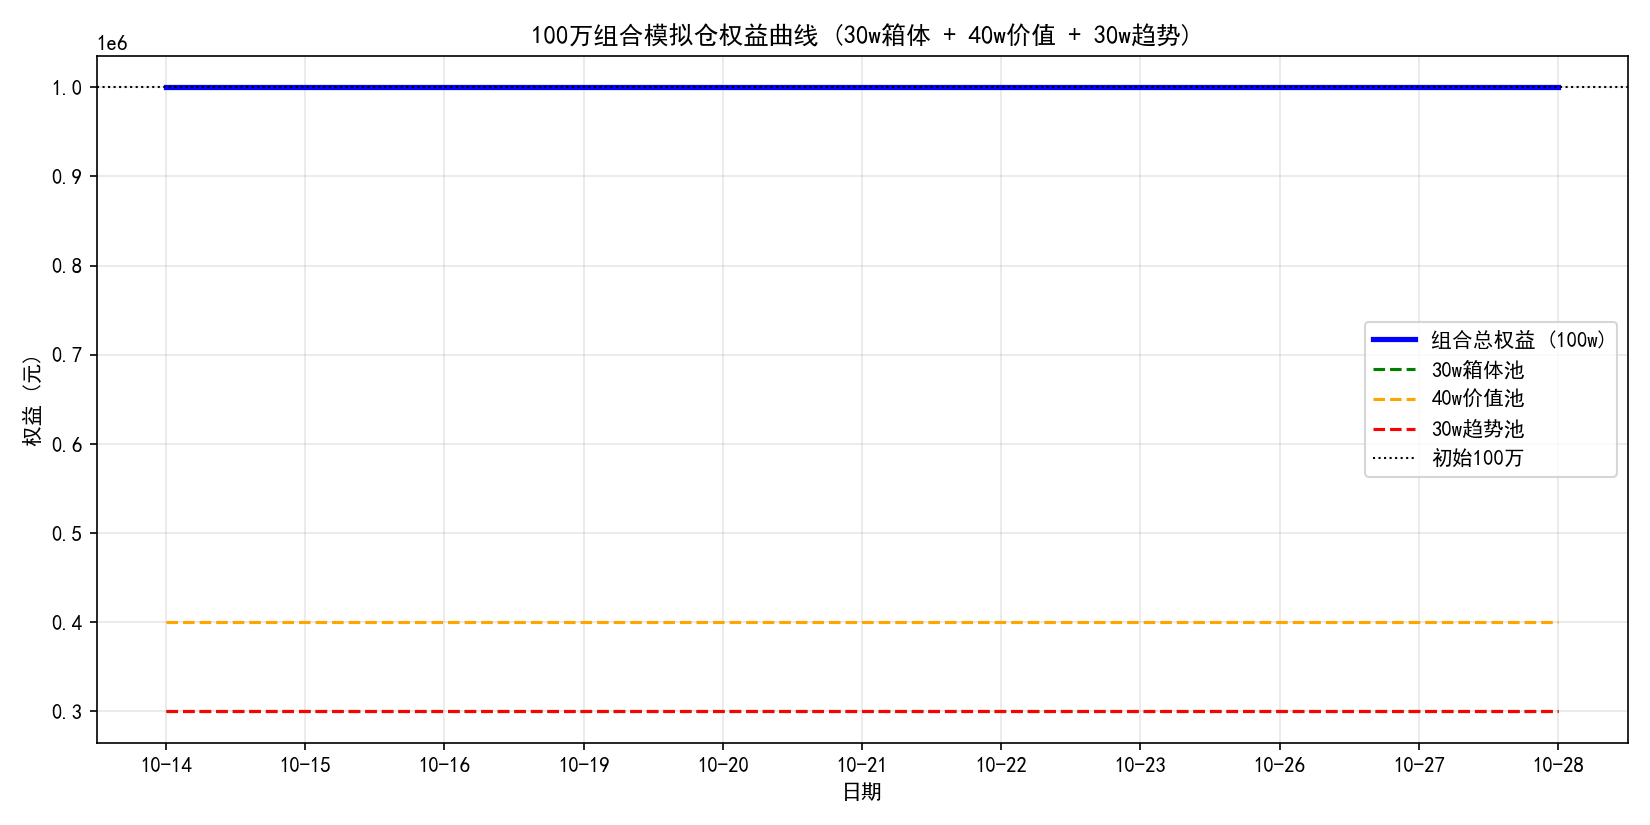
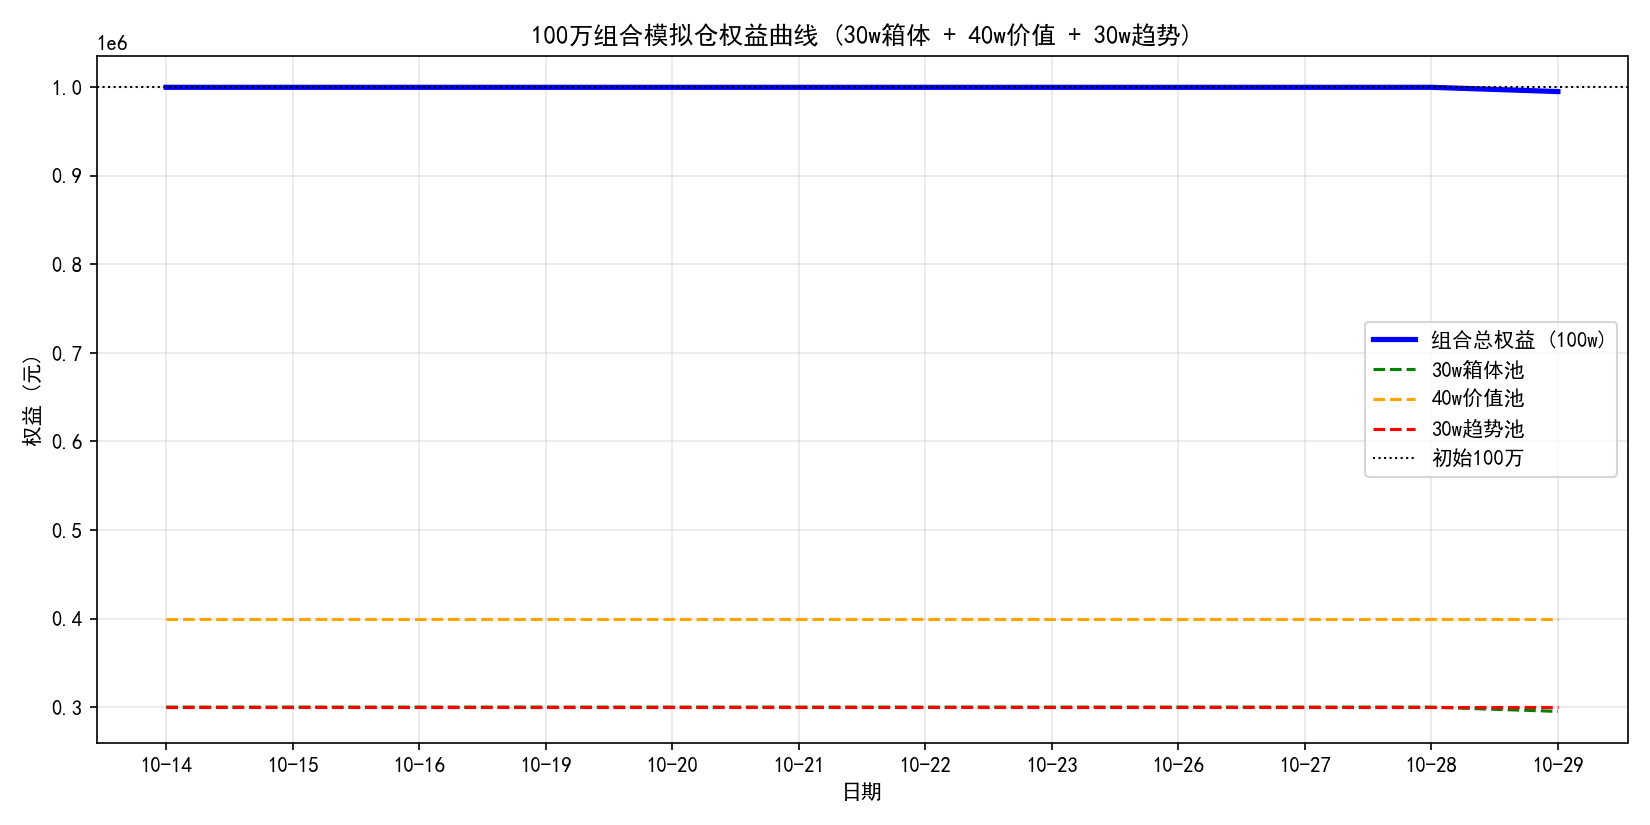
reports: 2026-10-29 自动更新

diff --git a/custom/数据掘金/2026-10-14-DrX-100万组合模拟仓.html b/custom/数据掘金/2026-10-14-DrX-100万组合模拟仓.html
@@ -199,6 +199,16 @@
 <li>数据口径说明：今日 Tushare pro_bar 复权接口限频，14 只全量回退为不复权日线回退计算箱体/止损线，存在除权缺口偏差风险；药明康德/百济神州/中芯国际/澜起科技 IP 超限、亨通光电格式异常，计入常规观察；限频恢复后复权重算校验</li>
 </ul>
 <p><em>本模拟为量化研究记录，不构成投资建议。</em></p>
+<h3>2026-10-29（周四，收盘更新）</h3>
+<ul>
+<li>扫描分流（14 只全量）：30w 箱体低吸 <strong>0</strong> / 30w 趋势突破 <strong>0</strong> / 40w 价值回踩 <strong>0</strong> / 风控预警 <strong>9</strong></li>
+<li>30w 箱体池：新金路收 <strong>10.04</strong>（-8.23%），箱体 10.59–19.76，Pos -0.06，低于扫描止损线 13.59（距现价 -35.4%）；今日按新金路模拟规则执行 T0 试探仓买入 <strong>8400 股 @10.61</strong>，另有 T1 限价买入 5600 股 @10.61 待成交，硬止损 9.72，收盘价距硬止损 +3.3%；现金 210,849.26，权益 <strong>295,185.26</strong>（较 30w 本金 -4,814.74）</li>
+<li>40w 价值池：400,000.00（现金，无持仓）；30w 趋势池：300,000.00（现金，无持仓）——v1 阶段仅记录信号与市值，不自动下单</li>
+<li>组合权益：<strong>995,185.26（-0.48%）</strong>，为组合启动以来首次跌破 100 万</li>
+<li>关键风控：新金路 -8.23% 破位离场预警（低于扫描止损线 -35.4%），但 30w 池今日已按箱体下沿规则建试探仓，收盘已跌破买入价，盯紧硬止损 9.72；长江电力收 29.99（+2.01%），Pos 1.13 处分批止盈区，挂单 TP2@29.51（40%）/TP3@29.81（30%）；汇川技术收 56.78（+1.10%），Pos 1.65 处分批止盈区，挂单 TP2@52.88（40%）/TP3@53.80（30%），昨日趋势突破信号今日转为分批止盈区，v1 阶段趋势池不下单仅记录；阳光电源收 67.21（-1.49%）破位离场（-16.1%）；中际旭创收 582.05（-8.53%）破位离场（-18.6%）；亨通光电收 44.60（-7.98%）破位离场（-2.2%），昨日逼近硬止损今日跌破；兆易创新收 275.99（-4.79%）破位离场（-6.0%）；佰维存储收 138.10（-15.79%，量比 1.94x）破位离场（-18.9%）；泽璟制药收 84.20（-6.43%，量比 1.71x）破位离场（-15.3%）；70w 池空仓、无止损动作</li>
+<li>数据口径说明：今日 Tushare pro_bar 复权接口限频，14 只全量回退为不复权日线回退计算箱体/止损线，存在除权缺口偏差风险；紫金矿业格式异常、药明康德/百济神州/中芯国际/澜起科技 IP 超限，计入常规观察；限频恢复后复权重算校验</li>
+</ul>
+<p><em>本模拟为量化研究记录，不构成投资建议。</em></p>
 <p class="meta">发布日期：2026-10-14 · 类型：数据掘金</p>
 <footer class="site-foot">本站内容由定时任务自动生成，仅供学习参考，不构成投资建议。</footer>
 </div>

diff --git a/custom/数据掘金/2026-10-14-DrX-100万组合模拟仓.md b/custom/数据掘金/2026-10-14-DrX-100万组合模拟仓.md
@@ -163,3 +163,12 @@
 - 数据口径说明：今日 Tushare pro_bar 复权接口限频，14 只全量回退为不复权日线回退计算箱体/止损线，存在除权缺口偏差风险；药明康德/百济神州/中芯国际/澜起科技 IP 超限、亨通光电格式异常，计入常规观察；限频恢复后复权重算校验
 
 *本模拟为量化研究记录，不构成投资建议。*
+### 2026-10-29（周四，收盘更新）
+- 扫描分流（14 只全量）：30w 箱体低吸 **0** / 30w 趋势突破 **0** / 40w 价值回踩 **0** / 风控预警 **9**
+- 30w 箱体池：新金路收 **10.04**（-8.23%），箱体 10.59–19.76，Pos -0.06，低于扫描止损线 13.59（距现价 -35.4%）；今日按新金路模拟规则执行 T0 试探仓买入 **8400 股 @10.61**，另有 T1 限价买入 5600 股 @10.61 待成交，硬止损 9.72，收盘价距硬止损 +3.3%；现金 210,849.26，权益 **295,185.26**（较 30w 本金 -4,814.74）
+- 40w 价值池：400,000.00（现金，无持仓）；30w 趋势池：300,000.00（现金，无持仓）——v1 阶段仅记录信号与市值，不自动下单
+- 组合权益：**995,185.26（-0.48%）**，为组合启动以来首次跌破 100 万
+- 关键风控：新金路 -8.23% 破位离场预警（低于扫描止损线 -35.4%），但 30w 池今日已按箱体下沿规则建试探仓，收盘已跌破买入价，盯紧硬止损 9.72；长江电力收 29.99（+2.01%），Pos 1.13 处分批止盈区，挂单 TP2@29.51（40%）/TP3@29.81（30%）；汇川技术收 56.78（+1.10%），Pos 1.65 处分批止盈区，挂单 TP2@52.88（40%）/TP3@53.80（30%），昨日趋势突破信号今日转为分批止盈区，v1 阶段趋势池不下单仅记录；阳光电源收 67.21（-1.49%）破位离场（-16.1%）；中际旭创收 582.05（-8.53%）破位离场（-18.6%）；亨通光电收 44.60（-7.98%）破位离场（-2.2%），昨日逼近硬止损今日跌破；兆易创新收 275.99（-4.79%）破位离场（-6.0%）；佰维存储收 138.10（-15.79%，量比 1.94x）破位离场（-18.9%）；泽璟制药收 84.20（-6.43%，量比 1.71x）破位离场（-15.3%）；70w 池空仓、无止损动作
+- 数据口径说明：今日 Tushare pro_bar 复权接口限频，14 只全量回退为不复权日线回退计算箱体/止损线，存在除权缺口偏差风险；紫金矿业格式异常、药明康德/百济神州/中芯国际/澜起科技 IP 超限，计入常规观察；限频恢复后复权重算校验
+
+*本模拟为量化研究记录，不构成投资建议。*
